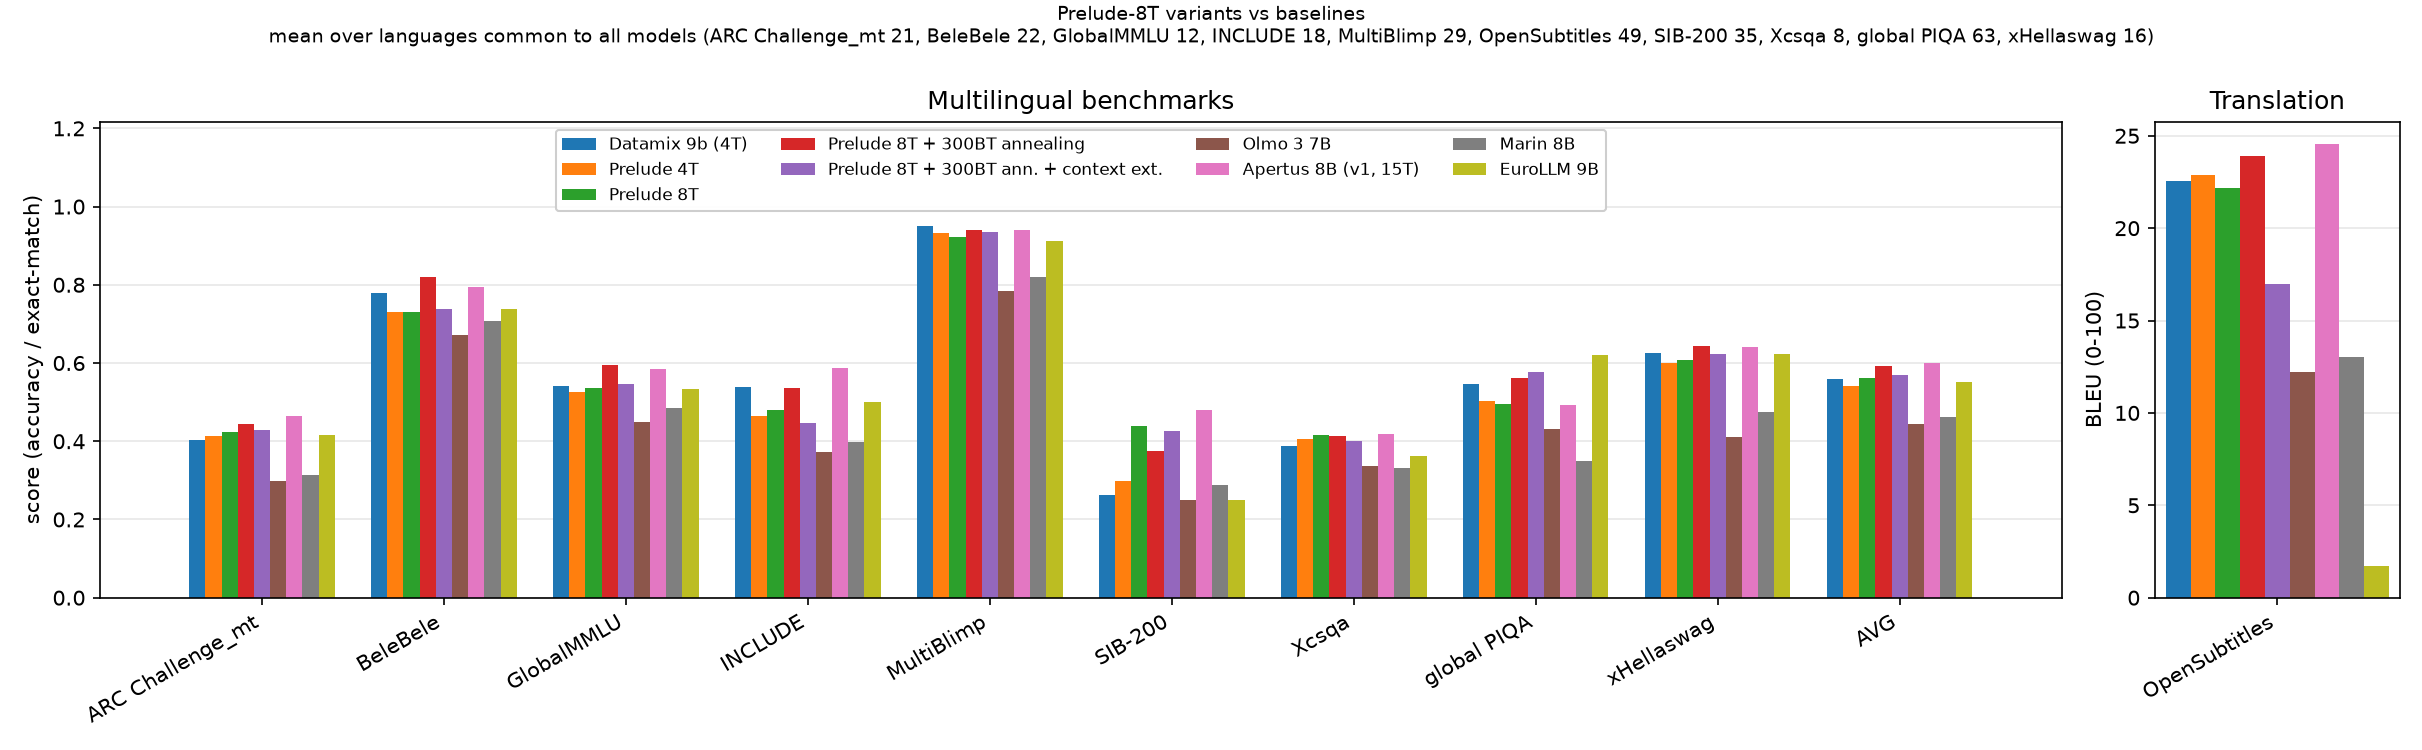
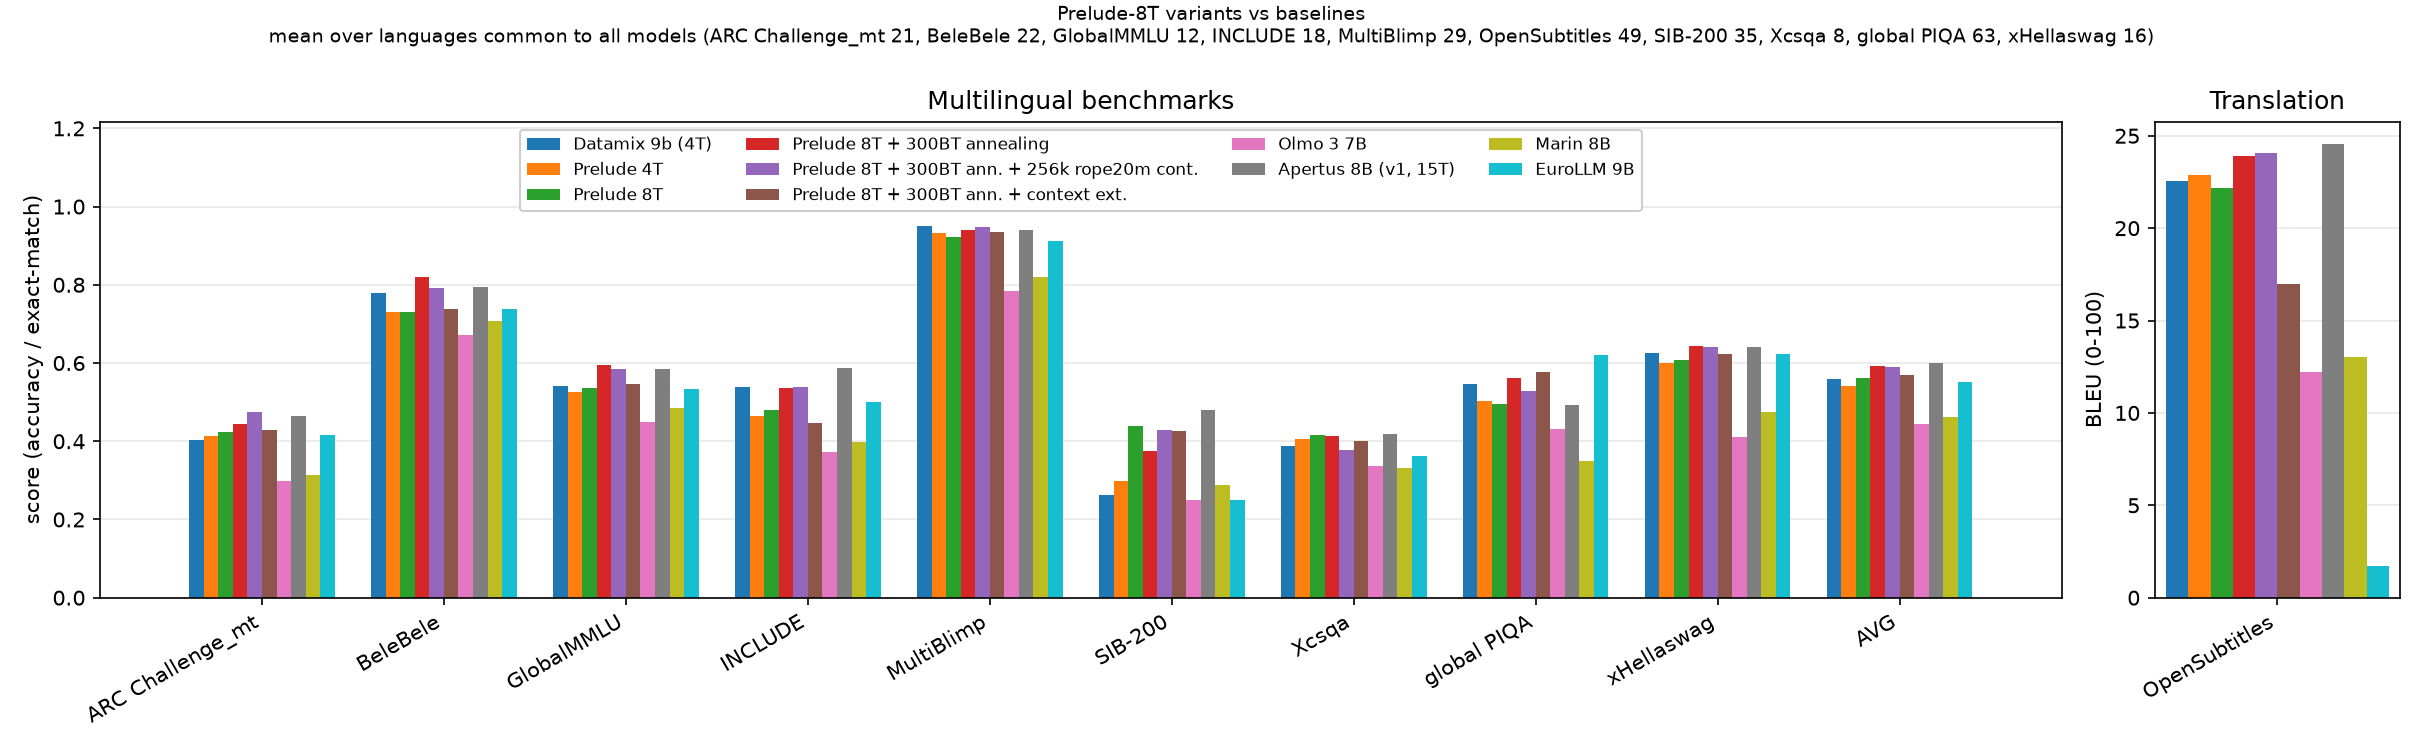
update code

diff --git a/prelude-evals-pre-post-annealing/export_results.py b/prelude-evals-pre-post-annealing/export_results.py
@@ -18,7 +18,11 @@ import pandas as pd
 
 DATA = os.path.join(os.path.dirname(os.path.abspath(__file__)), "data")
 SRCS = [os.path.join(DATA, "eval_results_all_metrics.csv"),
-        os.path.join(DATA, "eval_results_baselines_all_metrics.csv")]
+        os.path.join(DATA, "eval_results_baselines_all_metrics.csv"),
+        # Second context-extension run (256k, rope theta 20M, continued from
+        # the 300BT anneal), exported from LUMI by luomajou. Already in the
+        # all-metrics shape, so it concatenates straight onto the rest.
+        os.path.join(DATA, "export_256k-rope20m-cont_iter0500_allmetrics.csv")]
 PRELUDE = "openeurollm/prelude-checkpoints"
 
 # model_name in the collected CSV -> (output file, data, iter)
@@ -27,6 +31,9 @@ MODELS = {
         ("prelude-8T.csv", PRELUDE, "iter_0953312"),
     "/scratch/project_465002530/davisali/models/prelude-anneal300b_iter_0989075":
         ("prelude-8T-anneal300b.csv", PRELUDE, "iter_0989075"),
+    "/scratch/project_465002530/users/luomajou/oellm-long-ctx/output-prelude-anneal300b-256k-rope20m-cont/hf-checkpoints/prelude-anneal300b-256k-rope20m-cont/iter_0500":
+        ("prelude-8T-anneal300b-256k-rope20m.csv",
+         "openeurollm/prelude-anneal300b-256k-rope20m-cont", "iter_0500"),
     "birgermoell/oellm-9b-256k-theta64m-prelude-anneal300b":
         ("prelude-8T-anneal300b-ctxext.csv",
          "birgermoell/oellm-9b-256k-theta64m-prelude-anneal300b", ""),
@@ -62,6 +69,25 @@ MAP = {
     "global_piqa_completions": ("global PIQA",    "acc_norm"),
     "global_piqa_prompted":  ("global PIQA",      "exact_match"),
 }
+# English dclm-core-22 task -> the metric eval_results.csv records as primary.
+EN_METRIC = {
+    "arc_easy": "acc_norm", "arc_challenge": "acc_norm", "boolq": "acc",
+    "commonsense_qa": "acc", "copa": "acc", "hellaswag": "acc_norm",
+    "openbookqa": "acc_norm", "piqa": "acc_norm", "winogrande": "acc",
+    "wsc273": "acc", "lambada_openai": "acc", "coqa": "f1",
+    "bigbench_language_identification_multiple_choice": "acc",
+    "bigbench_qa_wikidata_generate_until": "exact_match",
+    "bigbench_dyck_languages_generate_until": "exact_match",
+    "bigbench_operators_generate_until": "exact_match",
+    "bigbench_repeat_copy_logic_generate_until": "exact_match",
+    "bigbench_cs_algorithms_generate_until": "exact_match",
+    "jeopardy": "exact_match",
+}
+# (all-metrics source, primary-metric output) for models that arrive outside
+# the `collect` run, which writes both shapes itself.
+EN_EXPORTS = [("export_256k-rope20m-cont_iter0500_allmetrics.csv",
+               "eval_results_256k-rope20m-cont.csv")]
+
 COLS = ["model_path", "size", "data", "lr", "gbsz", "beta2", "seed",
         "schedule", "tokens_B", "iter", "benchmark", "task", "n_shot",
         "metric", "score"]
@@ -88,6 +114,13 @@ def main():
         out = pd.DataFrame(rows, columns=COLS).sort_values(["benchmark", "task"])
         out.to_csv(os.path.join(DATA, fname), index=False, lineterminator="\r\n")
         print(f"{fname:38s} {len(out):4d} rows  iter={it or '(none)'}")
+
+    for src_name, out_name in EN_EXPORTS:
+        d = pd.read_csv(os.path.join(DATA, src_name))
+        keep = d.apply(lambda r: EN_METRIC.get(r["task"]) == r["metric_name"],
+                       axis=1)
+        d[keep].to_csv(os.path.join(DATA, out_name), index=False)
+        print(f"{out_name:38s} {int(keep.sum()):4d} rows  (English primary metric)")
 
 
 if __name__ == "__main__":

diff --git a/prelude-evals-pre-post-annealing/plot_table.py b/prelude-evals-pre-post-annealing/plot_table.py
@@ -118,6 +118,7 @@ def task_language(task: str) -> str | None:
 NEW_MODELS = [
     ("Prelude 8T", "prelude-8T.csv"),
     ("Prelude 8T + 300BT annealing", "prelude-8T-anneal300b.csv"),
+    ("Prelude 8T + 300BT ann. + 256k rope20m cont.", "prelude-8T-anneal300b-256k-rope20m.csv"),
     ("Prelude 8T + 300BT ann. + context ext.", "prelude-8T-anneal300b-ctxext.csv"),
 ]
 
@@ -146,6 +147,7 @@ ROW_ORDER = [
     "Prelude 4T",
     "Prelude 8T",
     "Prelude 8T + 300BT annealing",
+    "Prelude 8T + 300BT ann. + 256k rope20m cont.",
     "Prelude 8T + 300BT ann. + context ext.",
     "Olmo 3 7B",
     "Apertus 8B (v1, 15T)",
@@ -159,6 +161,8 @@ ROW_ORDER = [
 SUITE_CSV = os.path.join(DATA, "compare_prelude_ellamind_suite.csv")
 EVAL_CSV = os.path.join(DATA, "eval_results.csv")
 EVAL_BASELINES_CSV = os.path.join(DATA, "eval_results_baselines.csv")
+# Models exported outside the `collect` run, written by export_results.py.
+EVAL_EXTRA_CSVS = [os.path.join(DATA, "eval_results_256k-rope20m-cont.csv")]
 
 # LUMI sweep model_name -> label, in training-progression order.
 NEW_MODELS_EN = [
@@ -166,6 +170,8 @@ NEW_MODELS_EN = [
      "Prelude 8T"),
     ("/scratch/project_465002530/davisali/models/prelude-anneal300b_iter_0989075",
      "Prelude 8T + 300BT annealing"),
+    ("/scratch/project_465002530/users/luomajou/oellm-long-ctx/output-prelude-anneal300b-256k-rope20m-cont/hf-checkpoints/prelude-anneal300b-256k-rope20m-cont/iter_0500",
+     "Prelude 8T + 300BT ann. + 256k rope20m cont."),
     ("birgermoell/oellm-9b-256k-theta64m-prelude-anneal300b",
      "Prelude 8T + 300BT ann. + context ext."),
 ]
@@ -211,6 +217,7 @@ ROW_ORDER_EN = [
     "Prelude 4T",
     "Prelude 8T",
     "Prelude 8T + 300BT annealing",
+    "Prelude 8T + 300BT ann. + 256k rope20m cont.",
     "Prelude 8T + 300BT ann. + context ext.",
     "Olmo 3 7B",
     "Apertus 8B (v1, 15T)",
@@ -310,7 +317,8 @@ DCLM_TASKS = [
 
 def load_english_dclm():
     """Full dclm-core-22, same-suite models only (no compare-suite baselines)."""
-    ev = pd.concat([pd.read_csv(EVAL_CSV), pd.read_csv(EVAL_BASELINES_CSV)],
+    ev = pd.concat([pd.read_csv(EVAL_CSV), pd.read_csv(EVAL_BASELINES_CSV)]
+                   + [pd.read_csv(p) for p in EVAL_EXTRA_CSVS],
                    ignore_index=True)
     ev = ev[ev.task.isin(DCLM_TASKS)]
     n = ev.groupby("task")["n_shot"].nunique()
@@ -332,7 +340,8 @@ def load_english():
     suite = pd.read_csv(SUITE_CSV).set_index("method")
     suite = suite.drop(columns=["average"], errors="ignore")
 
-    ev = pd.concat([pd.read_csv(EVAL_CSV), pd.read_csv(EVAL_BASELINES_CSV)],
+    ev = pd.concat([pd.read_csv(EVAL_CSV), pd.read_csv(EVAL_BASELINES_CSV)]
+                   + [pd.read_csv(p) for p in EVAL_EXTRA_CSVS],
                    ignore_index=True)
     suite = suite.drop(columns=list(EXCLUDE_BENCHMARKS_EN), errors="ignore")
     ev = ev[ev.task.isin(suite.columns)]

diff --git a/prelude-evals-pre-post-annealing/README.md b/prelude-evals-pre-post-annealing/README.md
@@ -1,13 +1,20 @@
 # Prelude 8T — pre/post annealing evaluation
 
-Compares three Prelude checkpoints against external baselines on English and
+Compares four Prelude checkpoints against external baselines on English and
 multilingual benchmarks:
 
 | label | checkpoint |
 |---|---|
 | Prelude 8T | `prelude-iter_0953312` (7997 B tokens) |
 | Prelude 8T + 300BT annealing | `prelude-anneal300b_iter_0989075` (8297 B tokens) |
+| Prelude 8T + 300BT ann. + 256k rope20m cont. | `prelude-anneal300b-256k-rope20m-cont/iter_0500` (luomajou's run, LUMI) |
 | Prelude 8T + 300BT ann. + context ext. | `birgermoell/oellm-9b-256k-theta64m-prelude-anneal300b` |
+
+The 256k-rope20m row was evaluated outside our `collect` run and arrives as
+`data/export_256k-rope20m-cont_iter0500_allmetrics.csv`, copied from
+`/scratch/project_465002530/users/luomajou/` on LUMI. It covers the same task
+suite, so it does not narrow `common_tasks_only`; `export_results.py` also
+derives `data/eval_results_256k-rope20m-cont.csv` for the English table.
 
 Baselines: Datamix 9b, Prelude 4T, Olmo 3 7B, Apertus 8B (v1 base, 15T).
 
